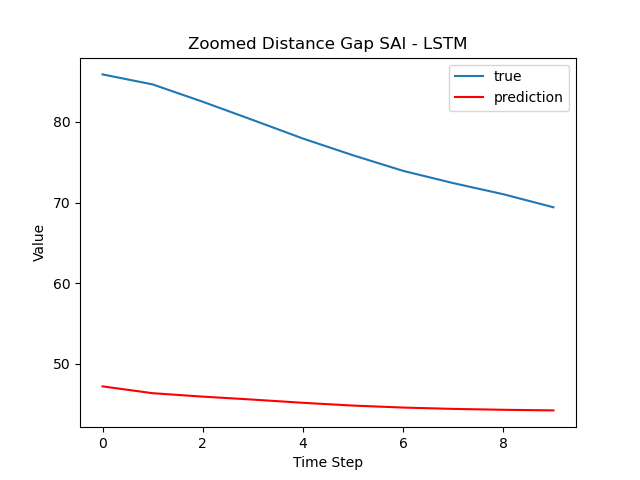
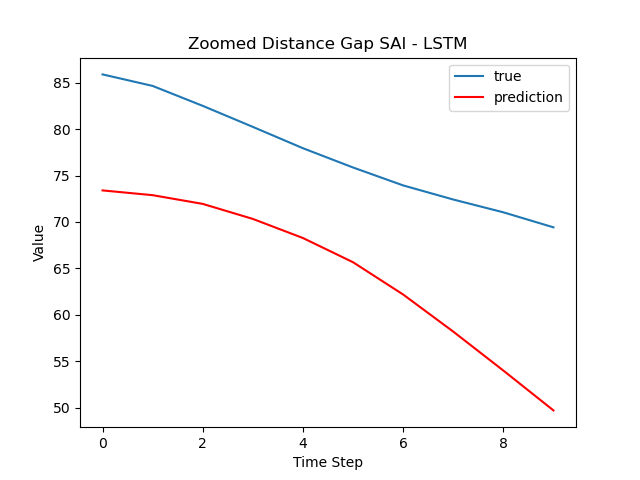
lstm future predictions updated

diff --git a/tf/lstm.py b/tf/lstm.py
@@ -46,7 +46,7 @@ def main():
     keras.backend.clear_session()
 
     model = Sequential()
-    model.add(LSTM(units=32, input_shape=(lookback, 1)))
+    model.add(LSTM(units=64, input_shape=(lookback, 1)))
     model.add(Dense(units=1))
     model.compile(
         loss='mean_squared_error',
